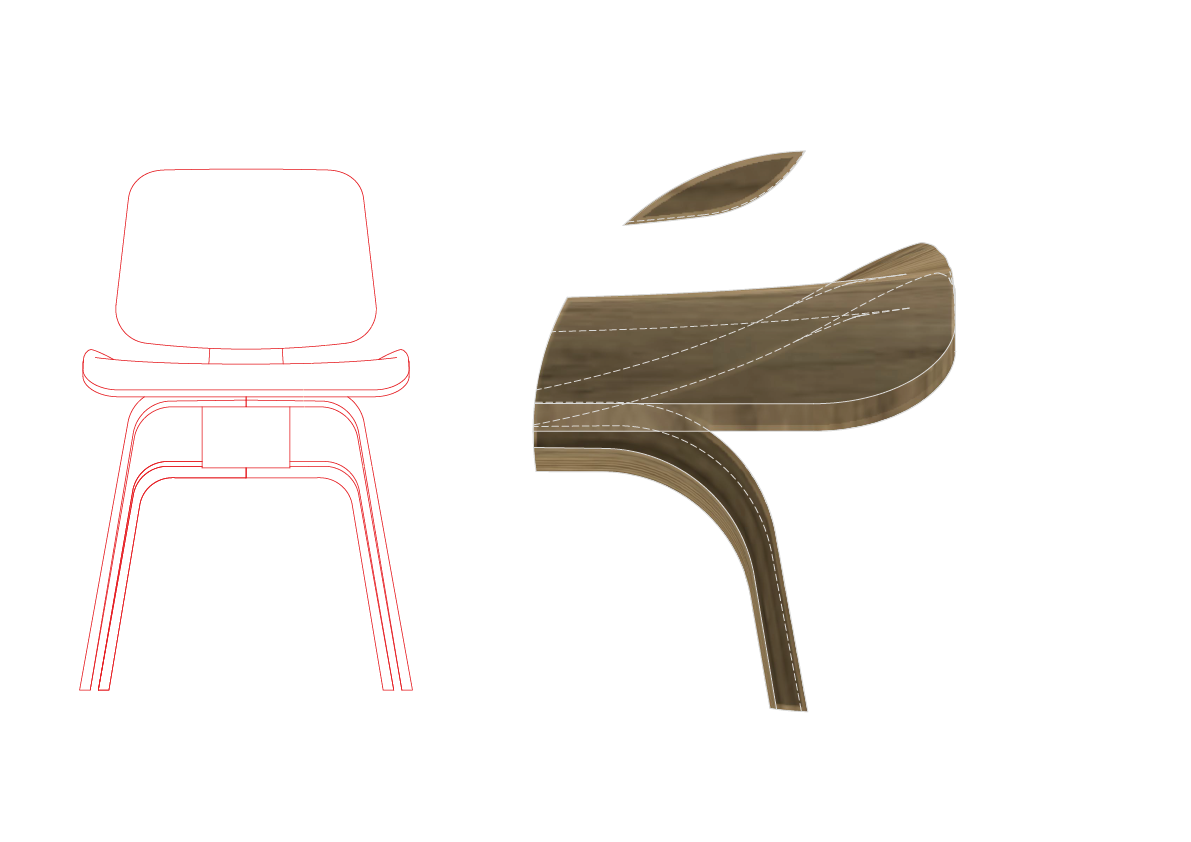
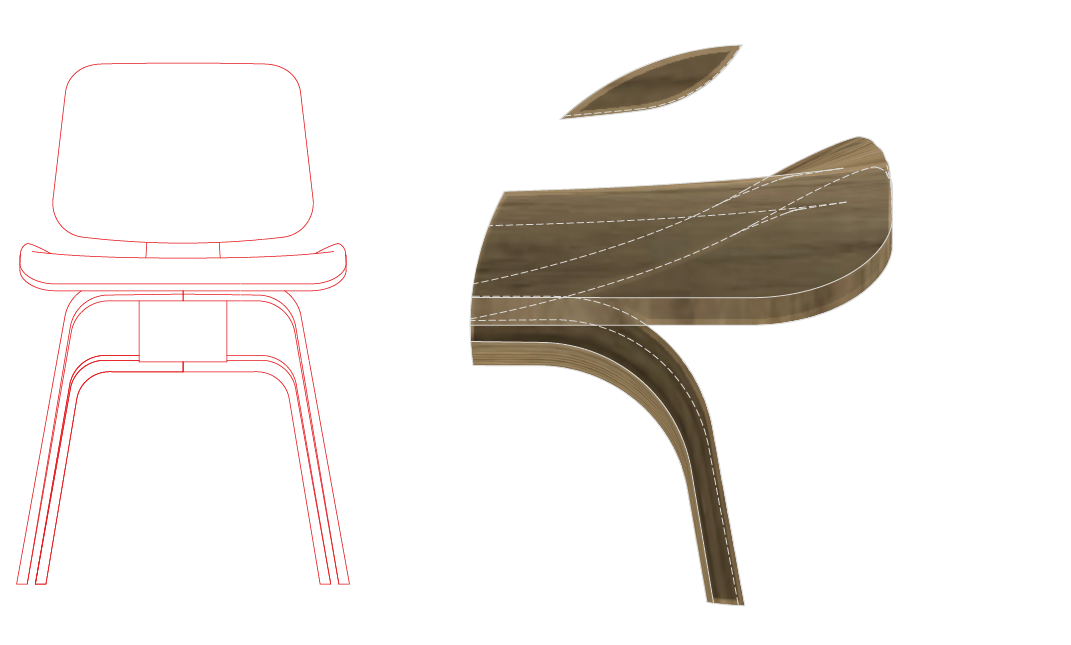
Planimetria centrada

diff --git a/docs/tutoriales-planimetrías/index.html b/docs/tutoriales-planimetrías/index.html
@@ -133,6 +133,127 @@
 <img src="/img/planimetrias_clase2/3.png" alt="PDF3">
 <img src="/img/planimetrias_clase2/4.png" alt="PDF4">
 <img src="/img/planimetrias_clase2/5.png" alt="PDF5"></p>
+<p>
+<link rel="stylesheet" href="/css/hugo-easy-gallery.css" />
+
+<div class="gallery caption-position-bottom caption-effect-slide hover-effect-zoom hover-transition" itemscope itemtype="http://schema.org/ImageGallery">
+				<div class="box">
+				  <figure itemprop="associatedMedia" itemscope itemtype="http://schema.org/ImageObject">
+				    <div class="img" style="background-image: url('https://tallerfabricacion.github.io//img/planimetrias_clase2//1.png');" >
+				      <img itemprop="thumbnail" src="https://tallerfabricacion.github.io//img/planimetrias_clase2//1.png" alt="1st" />
+				    </div>
+			      <figcaption>
+		          <p>1st</p>
+			      </figcaption>
+				    <a href="https://tallerfabricacion.github.io//img/planimetrias_clase2//1.png" itemprop="contentUrl"></a>
+				  </figure>
+				</div>
+				<div class="box">
+				  <figure itemprop="associatedMedia" itemscope itemtype="http://schema.org/ImageObject">
+				    <div class="img" style="background-image: url('https://tallerfabricacion.github.io//img/planimetrias_clase2//2.png');" >
+				      <img itemprop="thumbnail" src="https://tallerfabricacion.github.io//img/planimetrias_clase2//2.png" alt="2nd" />
+				    </div>
+			      <figcaption>
+		          <p>2nd</p>
+			      </figcaption>
+				    <a href="https://tallerfabricacion.github.io//img/planimetrias_clase2//2.png" itemprop="contentUrl"></a>
+				  </figure>
+				</div>
+				<div class="box">
+				  <figure itemprop="associatedMedia" itemscope itemtype="http://schema.org/ImageObject">
+				    <div class="img" style="background-image: url('https://tallerfabricacion.github.io//img/planimetrias_clase2//3.png');" >
+				      <img itemprop="thumbnail" src="https://tallerfabricacion.github.io//img/planimetrias_clase2//3.png" alt="3rd" />
+				    </div>
+			      <figcaption>
+		          <p>3rd</p>
+			      </figcaption>
+				    <a href="https://tallerfabricacion.github.io//img/planimetrias_clase2//3.png" itemprop="contentUrl"></a>
+				  </figure>
+				</div>
+				<div class="box">
+				  <figure itemprop="associatedMedia" itemscope itemtype="http://schema.org/ImageObject">
+				    <div class="img" style="background-image: url('https://tallerfabricacion.github.io//img/planimetrias_clase2//4.png');" >
+				      <img itemprop="thumbnail" src="https://tallerfabricacion.github.io//img/planimetrias_clase2//4.png" alt="4th" />
+				    </div>
+			      <figcaption>
+		          <p>4th</p>
+			      </figcaption>
+				    <a href="https://tallerfabricacion.github.io//img/planimetrias_clase2//4.png" itemprop="contentUrl"></a>
+				  </figure>
+				</div>
+				<div class="box">
+				  <figure itemprop="associatedMedia" itemscope itemtype="http://schema.org/ImageObject">
+				    <div class="img" style="background-image: url('https://tallerfabricacion.github.io//img/planimetrias_clase2//5.png');" >
+				      <img itemprop="thumbnail" src="https://tallerfabricacion.github.io//img/planimetrias_clase2//5.png" alt="5th" />
+				    </div>
+			      <figcaption>
+		          <p>5th</p>
+			      </figcaption>
+				    <a href="https://tallerfabricacion.github.io//img/planimetrias_clase2//5.png" itemprop="contentUrl"></a>
+				  </figure>
+				</div>
+</div>
+ 
+
+
+
+  
+
+
+<script src="https://code.jquery.com/jquery-1.12.4.min.js" integrity="sha256-ZosEbRLbNQzLpnKIkEdrPv7lOy9C27hHQ+Xp8a4MxAQ=" crossorigin="anonymous"></script>
+<script src="/js/load-photoswipe.js"></script>
+
+
+<link rel="stylesheet" href="https://cdnjs.cloudflare.com/ajax/libs/photoswipe/4.1.1/photoswipe.min.css" integrity="sha256-sCl5PUOGMLfFYctzDW3MtRib0ctyUvI9Qsmq2wXOeBY=" crossorigin="anonymous" />
+<link rel="stylesheet" href="https://cdnjs.cloudflare.com/ajax/libs/photoswipe/4.1.1/default-skin/default-skin.min.css" integrity="sha256-BFeI1V+Vh1Rk37wswuOYn5lsTcaU96hGaI7OUVCLjPc=" crossorigin="anonymous" />
+<script src="https://cdnjs.cloudflare.com/ajax/libs/photoswipe/4.1.1/photoswipe.min.js" integrity="sha256-UplRCs9v4KXVJvVY+p+RSo5Q4ilAUXh7kpjyIP5odyc=" crossorigin="anonymous"></script>
+<script src="https://cdnjs.cloudflare.com/ajax/libs/photoswipe/4.1.1/photoswipe-ui-default.min.js" integrity="sha256-PWHOlUzc96pMc8ThwRIXPn8yH4NOLu42RQ0b9SpnpFk=" crossorigin="anonymous"></script>
+
+
+<div class="pswp" tabindex="-1" role="dialog" aria-hidden="true">
+
+<div class="pswp__bg"></div>
+
+<div class="pswp__scroll-wrap">
+    
+    <div class="pswp__container">
+      <div class="pswp__item"></div>
+      <div class="pswp__item"></div>
+      <div class="pswp__item"></div>
+    </div>
+    
+    <div class="pswp__ui pswp__ui--hidden">
+    <div class="pswp__top-bar">
+      
+      <div class="pswp__counter"></div>
+      <button class="pswp__button pswp__button--close" title="Close (Esc)"></button>
+      <button class="pswp__button pswp__button--share" title="Share"></button>
+      <button class="pswp__button pswp__button--fs" title="Toggle fullscreen"></button>
+      <button class="pswp__button pswp__button--zoom" title="Zoom in/out"></button>
+      
+      
+      <div class="pswp__preloader">
+        <div class="pswp__preloader__icn">
+          <div class="pswp__preloader__cut">
+            <div class="pswp__preloader__donut"></div>
+          </div>
+        </div>
+      </div>
+    </div>
+    <div class="pswp__share-modal pswp__share-modal--hidden pswp__single-tap">
+      <div class="pswp__share-tooltip"></div>
+    </div>
+    <button class="pswp__button pswp__button--arrow--left" title="Previous (arrow left)">
+    </button>
+    <button class="pswp__button pswp__button--arrow--right" title="Next (arrow right)">
+    </button>
+    <div class="pswp__caption">
+      <div class="pswp__caption__center"></div>
+    </div>
+    </div>
+    </div>
+</div>
+</p>
 
 </div>
 </div>

diff --git a/sitioweb/content/docs/tutoriales-planimetrías/index.md b/sitioweb/content/docs/tutoriales-planimetrías/index.md
@@ -23,3 +23,5 @@ Planimetría trabajada en Illustrator exportada en PNG con fondo transparente.
 ![PDF3](/img/planimetrias_clase2/3.png)
 ![PDF4](/img/planimetrias_clase2/4.png)
 ![PDF5](/img/planimetrias_clase2/5.png)
+
+{{< gallery dir="/img/planimetrias_clase2/" />}} {{< load-photoswipe >}}
